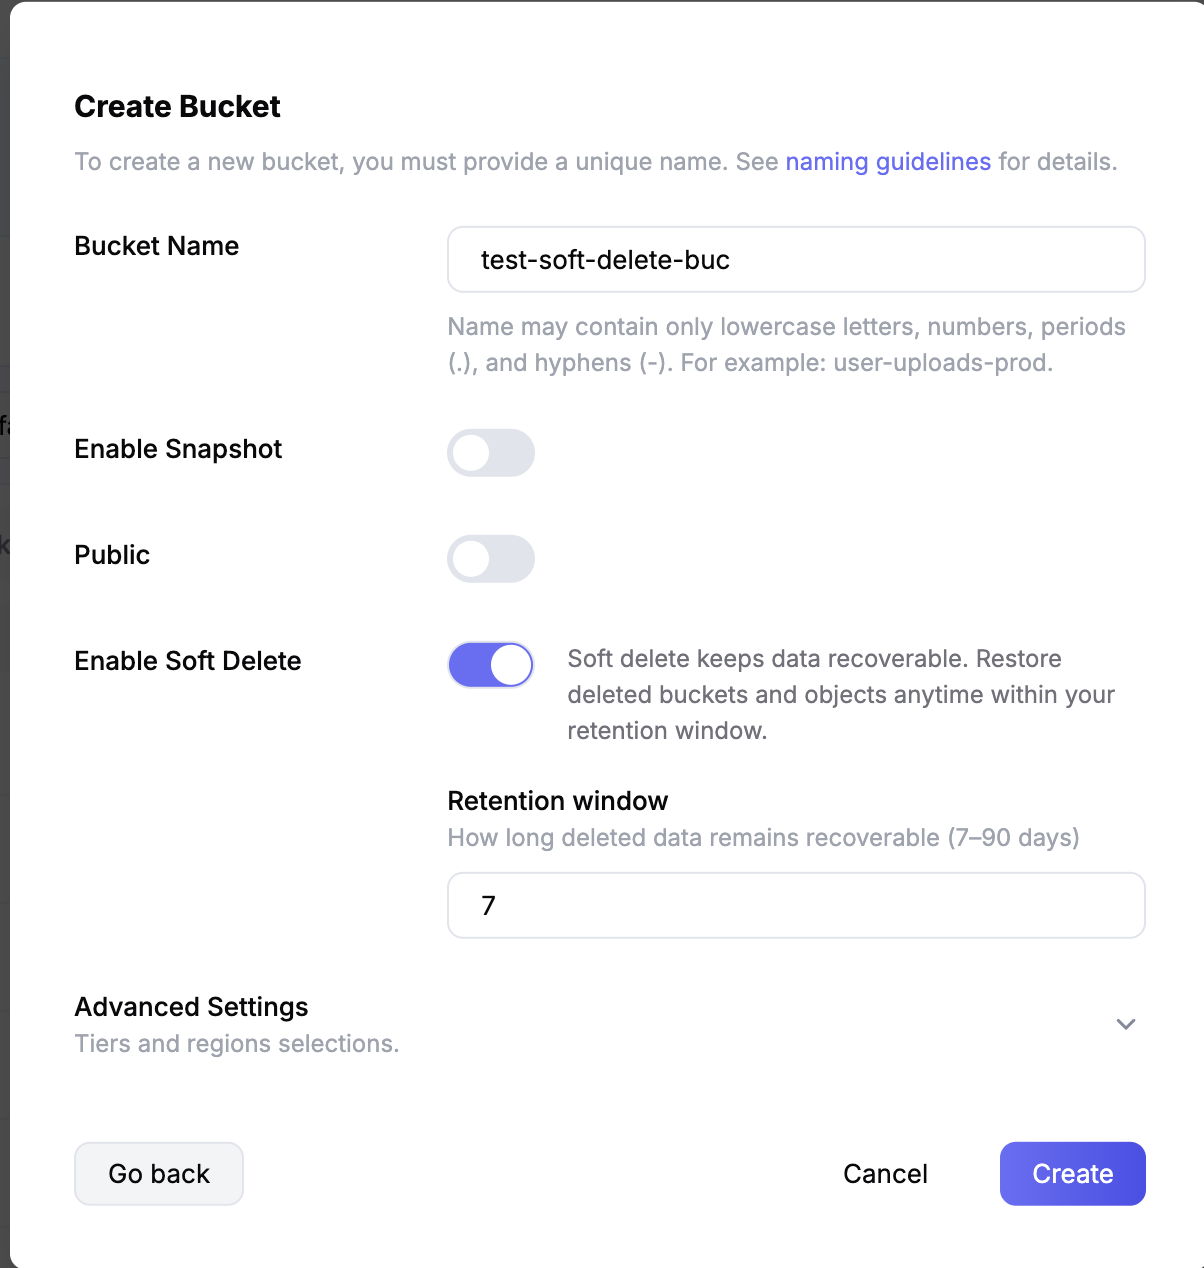
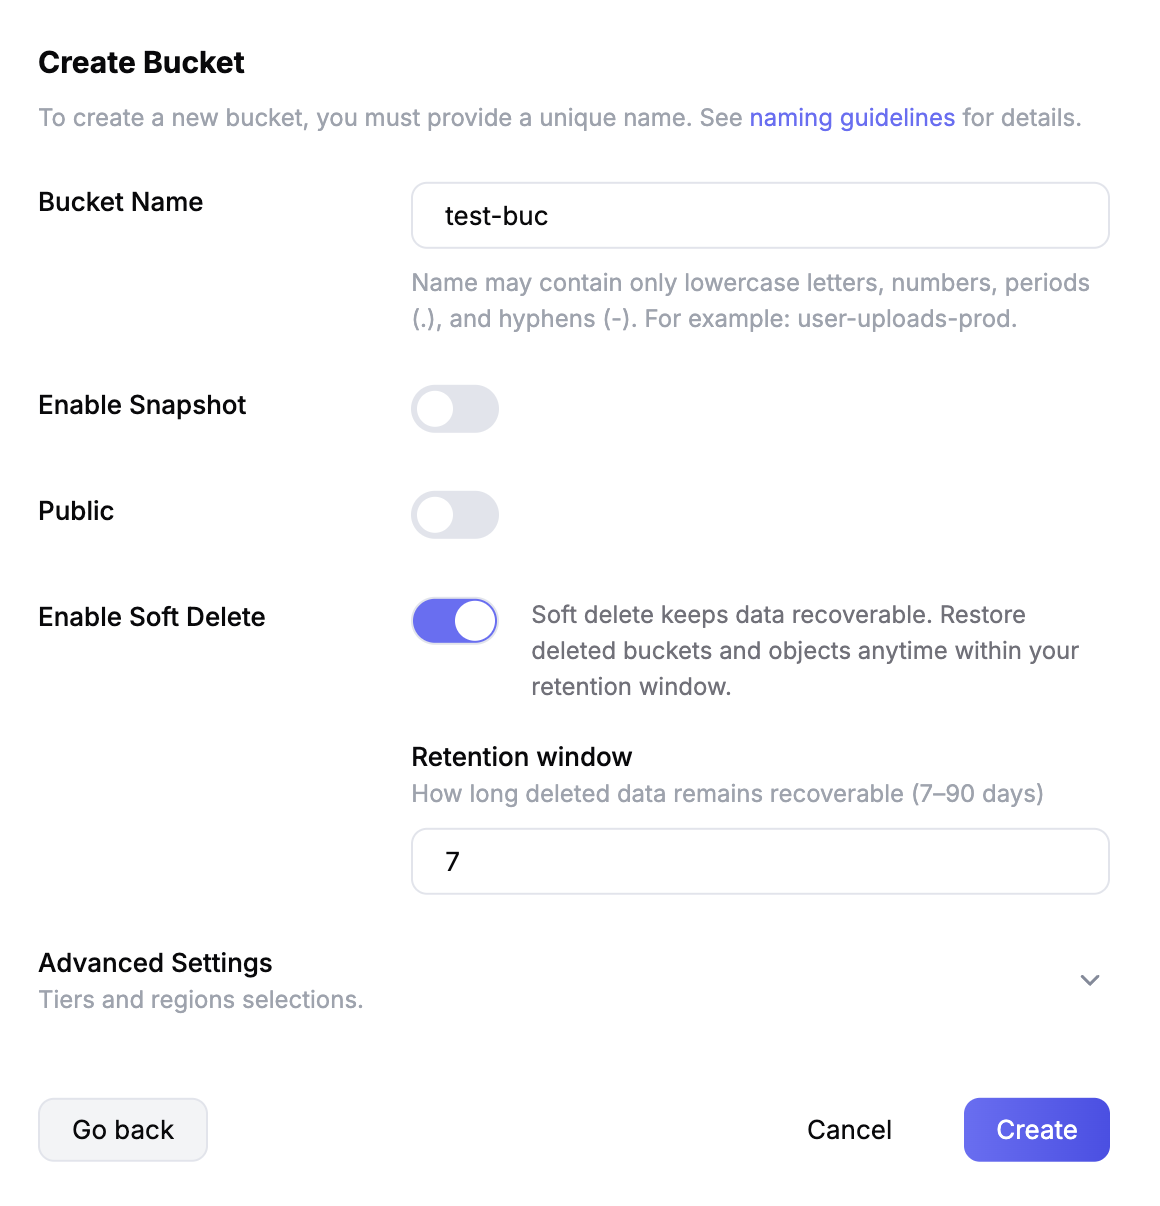
docs(soft-delete): tighten lifecycle, add S3 API + snapshot bucket notes
Tightens the page based on review feedback:

- Lifecycle diagram redrawn as a tee branch with a reverse-L restore
  arrow back from the soft-deleted state.
- Symmetric intro: both objects and buckets describe the auto-cleanup
  outcome.
- Corrects the storage-accounting claim — soft-deleted objects still
  count toward the bucket's object count and storage usage.
- Adds an S3 API subsection with a Go SDK example for the
  X-Tigris-Soft-Delete header.
- Adds bucket-restore notes: name stays reserved while in trash;
  restored buckets come back fully live.
- New "Snapshot buckets" subsection clarifying that deleting a specific
  version on a snapshot-enabled bucket moves that version into
  soft-deleted, while a plain delete still records a delete marker.
- Updated create-bucket screenshot.

Assisted-by: Claude Opus 4.7 via Claude Code

diff --git a/docs/buckets/soft-delete.md b/docs/buckets/soft-delete.md
@@ -4,20 +4,22 @@ Soft delete protects your bucket against accidental deletion. When soft delete
 is enabled, deleting an object does not immediately remove its data. Tigris
 keeps the deleted object for a configurable retention window during which you
 can list it, restore it, or permanently remove it. Once the retention window
-expires, Tigris cleans the object up automatically.
+expires, Tigris cleans the data up automatically.
 
 The same retention policy also protects the bucket itself: deleting a bucket
 with soft delete enabled moves the bucket into a soft-deleted state instead of
 hard deleting it. A soft-deleted bucket can be restored back into an active
-bucket within the retention window.
+bucket within the retention window, and is permanently removed once the
+retention window expires.
 
 ## How soft delete works
 
 When soft delete is enabled on a bucket:
 
 - A delete on an object marks the object as soft-deleted instead of removing its
-  data. The object stops appearing in regular listings and reads, and is not
-  counted against your live object inventory.
+  data. The object stops appearing in regular listings and reads, but its data
+  is preserved and still counts toward your bucket's object count and storage
+  usage until it is permanently removed.
 - Soft-deleted objects remain restorable for the retention window. You can list
   them, restore them to a live state, or permanently delete them ahead of the
   schedule.
@@ -28,6 +30,18 @@ When soft delete is enabled on a bucket:
   data and reclaims its storage.
 - Soft-deleted data continues to consume storage and is billed at the same rate
   as live data until it is removed.
+
+At a glance, the lifecycle looks like this:
+
+```
+     DELETE        ──►   soft-deleted state   ──┬──►   permanently removed
+bucket or object         (recoverable)          │      (async, after retention)
+                                                │
+                              ◄─── restore ─────┘
+```
+
+Cleanup runs asynchronously, so data is removed shortly after the retention
+window passes.
 
 ## Enabling soft delete on a bucket
 
@@ -47,17 +61,27 @@ The retention window controls how long deleted buckets and objects remain
 recoverable. It must be between **7 and 90 days**, and defaults to **7 days**
 when soft delete is first enabled.
 
-## Restoring deleted buckets
+### Enabling soft delete via the S3 API
+
+Set the `X-Tigris-Soft-Delete` header on `CreateBucket` — use `true` for the
+default 7-day retention, or a number between `7` and `90` for a custom window.
+
+```go
+func createBucketWithSoftDelete(ctx context.Context, client *s3.Client, bucketName string) error {
+	_, err := client.CreateBucket(ctx, &s3.CreateBucketInput{Bucket: aws.String(bucketName)}, func(options *s3.Options) {
+		options.APIOptions = append(options.APIOptions, http.AddHeaderValue("X-Tigris-Soft-Delete", "30"))
+	})
+	return err
+}
+```
+
+## Restoring a deleted bucket
 
 A bucket deleted while soft delete was enabled is not removed immediately. It
 moves to a soft-deleted state where it is hidden from your normal bucket list
-but stays recoverable until the retention window expires.
-
-### Restore a bucket
-
-Soft-deleted buckets are listed under the **Deleted buckets** tab on the buckets
-page in the Tigris Dashboard. Each entry shows the bucket name, location,
-deletion time, soft delete status, and owner.
+but stays recoverable until the retention window expires. Soft-deleted buckets
+are listed under the **Deleted buckets** tab on the buckets page in the Tigris
+Dashboard, where each row represents a deleted bucket.
 
 To restore a bucket, open the row's overflow menu (`...`) and choose
 **Restore**:
@@ -65,26 +89,45 @@ To restore a bucket, open the row's overflow menu (`...`) and choose
 ![Restore a soft-deleted bucket from the Deleted buckets tab](/img/soft-delete-restore-bucket.png)
 
 After a successful restore, the bucket is fully active again — it moves back to
-the regular bucket list and all the objects it held at the time of deletion are
-available. If you want to remove a soft-deleted bucket immediately instead of
-waiting for the retention window to expire, choose **Delete** from the same
-menu.
+the regular bucket list and every object it held at the time of deletion is live
+and readable, exactly as it was before the bucket was deleted. If you want to
+remove a soft-deleted bucket immediately instead of waiting for the retention
+window to expire, choose **Delete** from the same menu.
+
+While a bucket is in the soft-deleted state, its name stays reserved — you
+cannot create a new bucket with the same name until either the bucket is
+restored or permanently removed. This prevents another account from
+inadvertently claiming the name during the recovery window.
 
 ## Restoring a deleted object
 
-Inside a bucket, soft-deleted objects are listed under the **Deleted files**
+Every delete on a key produces its own soft-deleted version, stamped with the
+time it was deleted. The same key can therefore have many soft-deleted versions
+stacked up if it has been written and deleted more than once. For example, if
+you write an object at key `a`, delete it, write a fresh copy at `a`, delete
+that, then repeat one more time, the key will have three soft-deleted versions —
+one for each delete — all independently restorable until their retention windows
+expire.
+
+Inside a bucket, all soft-deleted objects are listed under the **Deleted files**
 tab. Selecting a deleted object opens its **Version history** panel on the
 right, which lists each soft-deleted version of that key along with its
-timestamp, version ID, size, and ETag.
-
-To restore the object, pick the version you want to recover and click **Restore
-this version**:
+timestamp, version ID, size, and ETag. To restore the object, pick the version
+you want to recover and click **Restore this version**:
 
 ![Restore a soft-deleted object from the Deleted files tab](/img/soft-delete-restore-object.png)
 
 The selected version becomes live immediately and is visible to all subsequent
 reads. To permanently remove a soft-deleted version before its retention window
 expires, click **Delete** on the same panel.
+
+### Snapshot buckets
+
+On a snapshot-enabled bucket, deleting a specific version moves that version
+into the soft-deleted state, where it appears in the **Deleted files** tab and
+can be restored from its Version history panel the same way. A plain delete on a
+snapshot-enabled bucket behaves as usual — it records a delete marker and leaves
+earlier versions live and accessible.
 
 ## Things to note
 